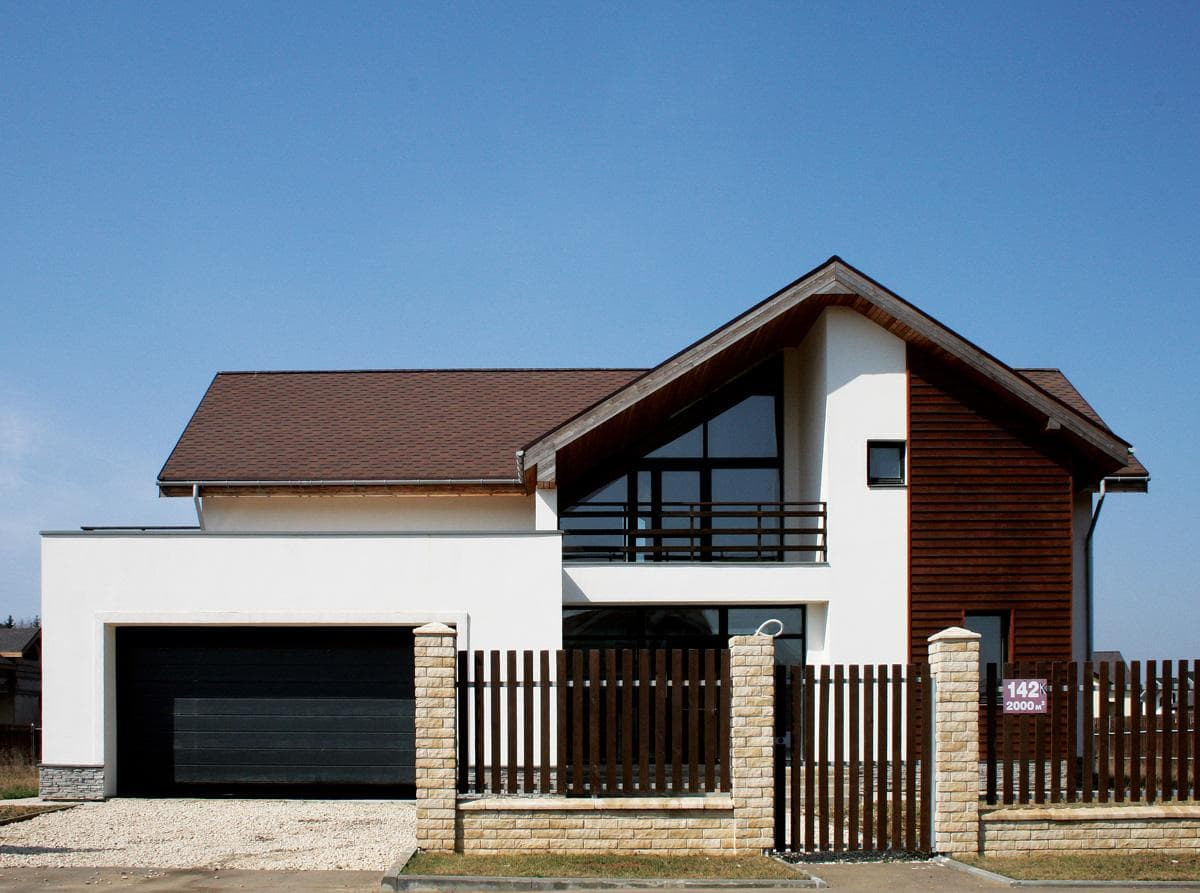
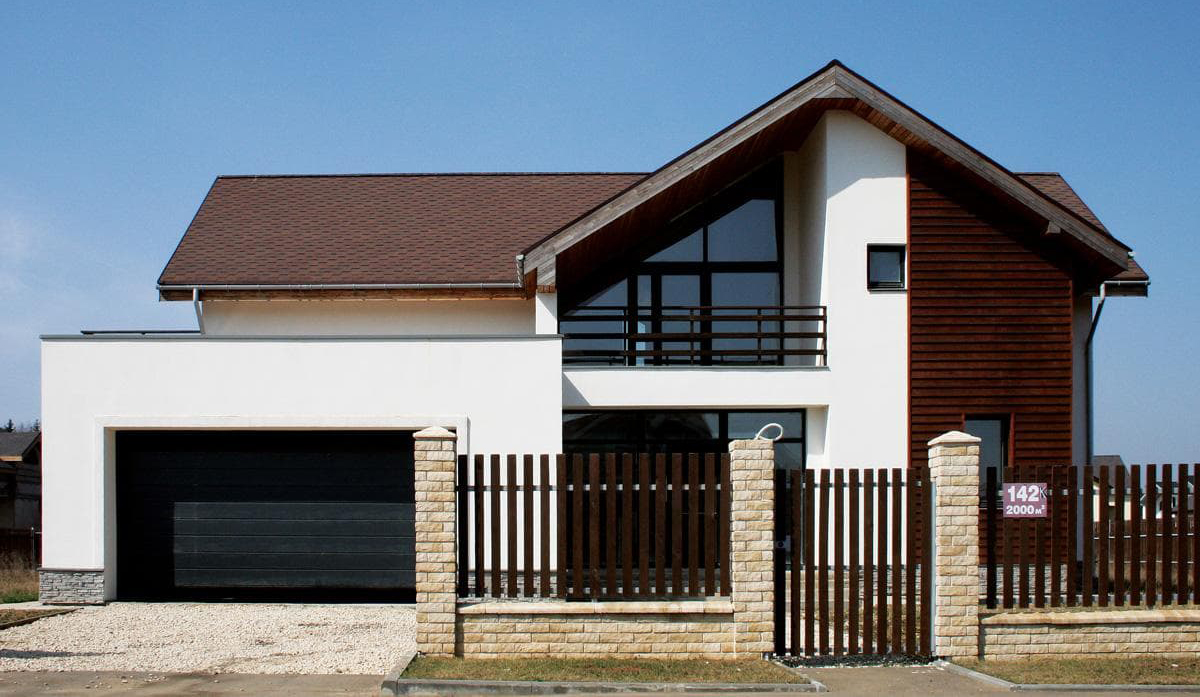
Фоновый слайдер

diff --git a/css/style.css b/css/style.css
@@ -199,11 +199,14 @@ a {
 
 #carousels img {
     width: 100%;
-    height: 99.92vh;
+   /* height: 99.92vh;*/
+
 }
 
 .carousel {
-    height: 100vh;    
+    overflow: hidden;
+    height: 100vh;
+    width: 100%;    
     position: absolute;
     left: 0;
     top: -3px;
